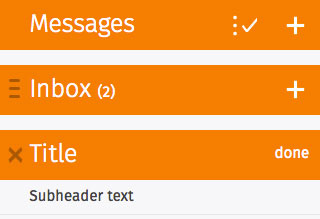
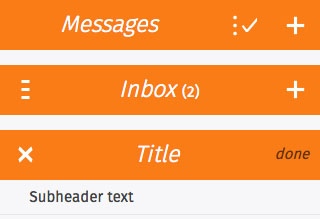
updated headers (added comms skin)

diff --git a/_includes/building-blocks/headers_2.html b/_includes/building-blocks/headers_2.html
@@ -16,3 +16,12 @@
     <h2>Subheader text</h2>
   </header>
 </section>
+<section class="skin-comms" role="region">
+  <header>
+    <a href="#"><span class="icon icon-back">back</span></a>
+    <h1>Contacts</h1>
+  </header>
+  <header>
+    <h2>Subheader text</h2>
+  </header>
+</section>
